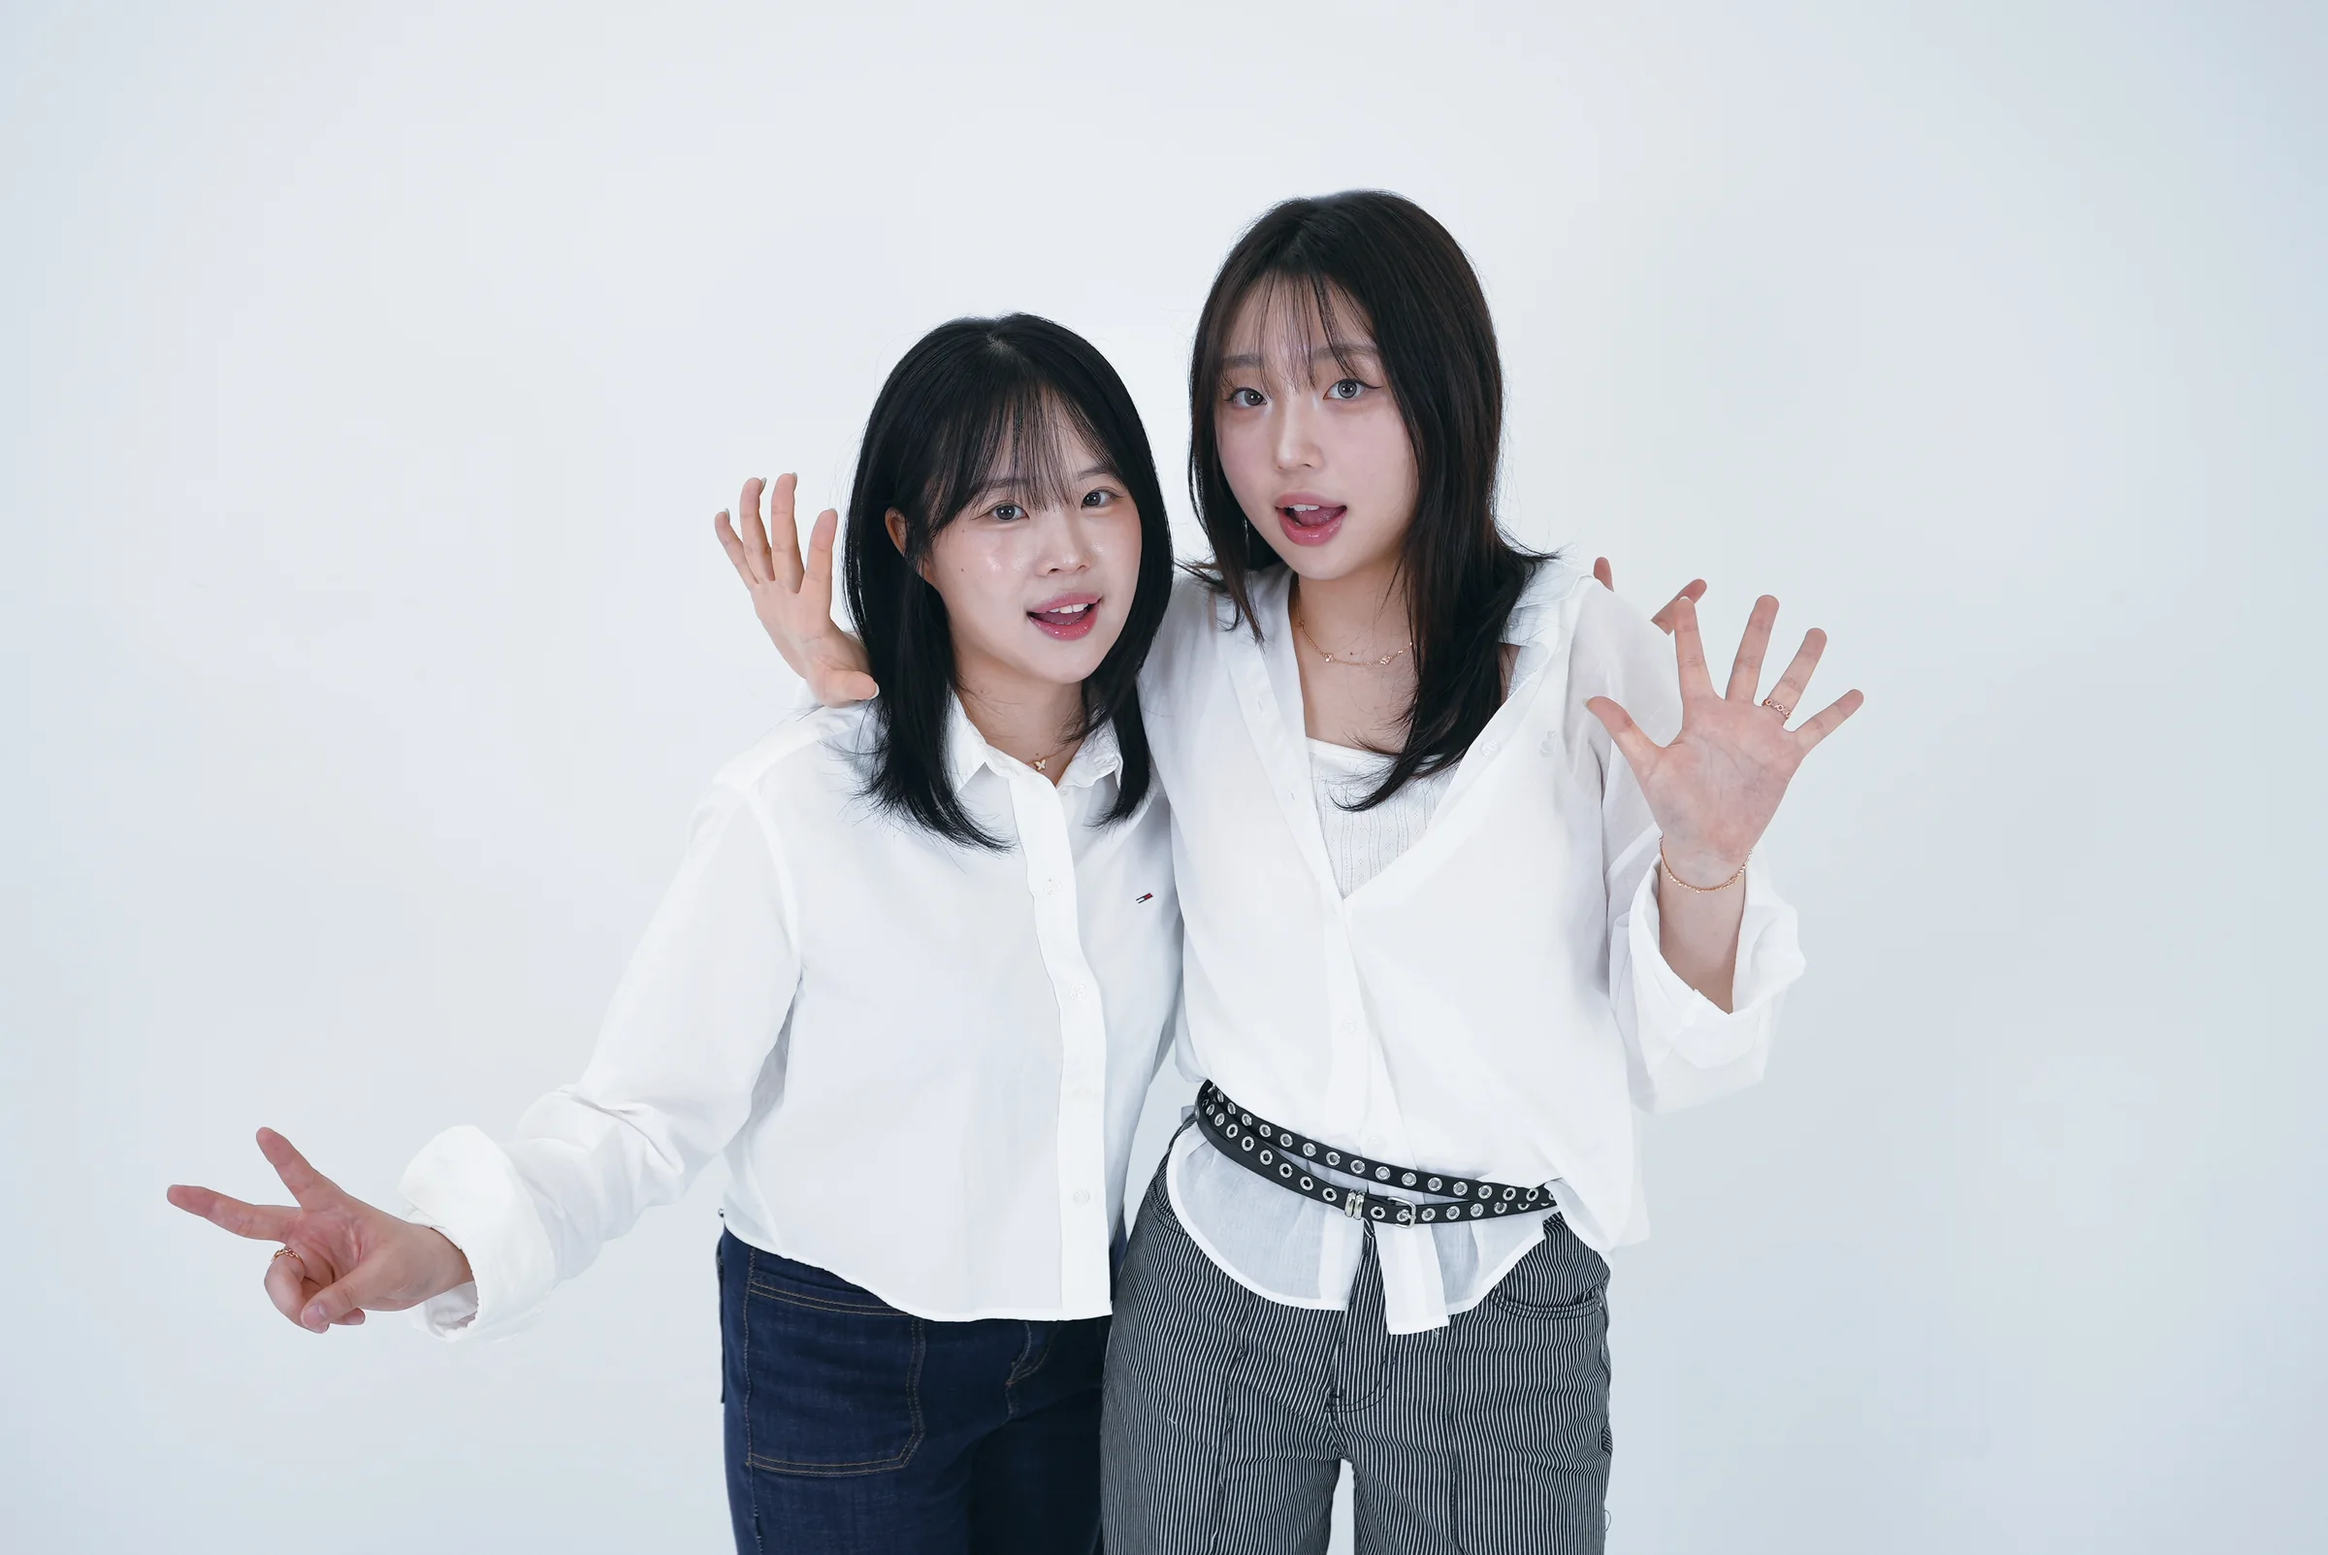
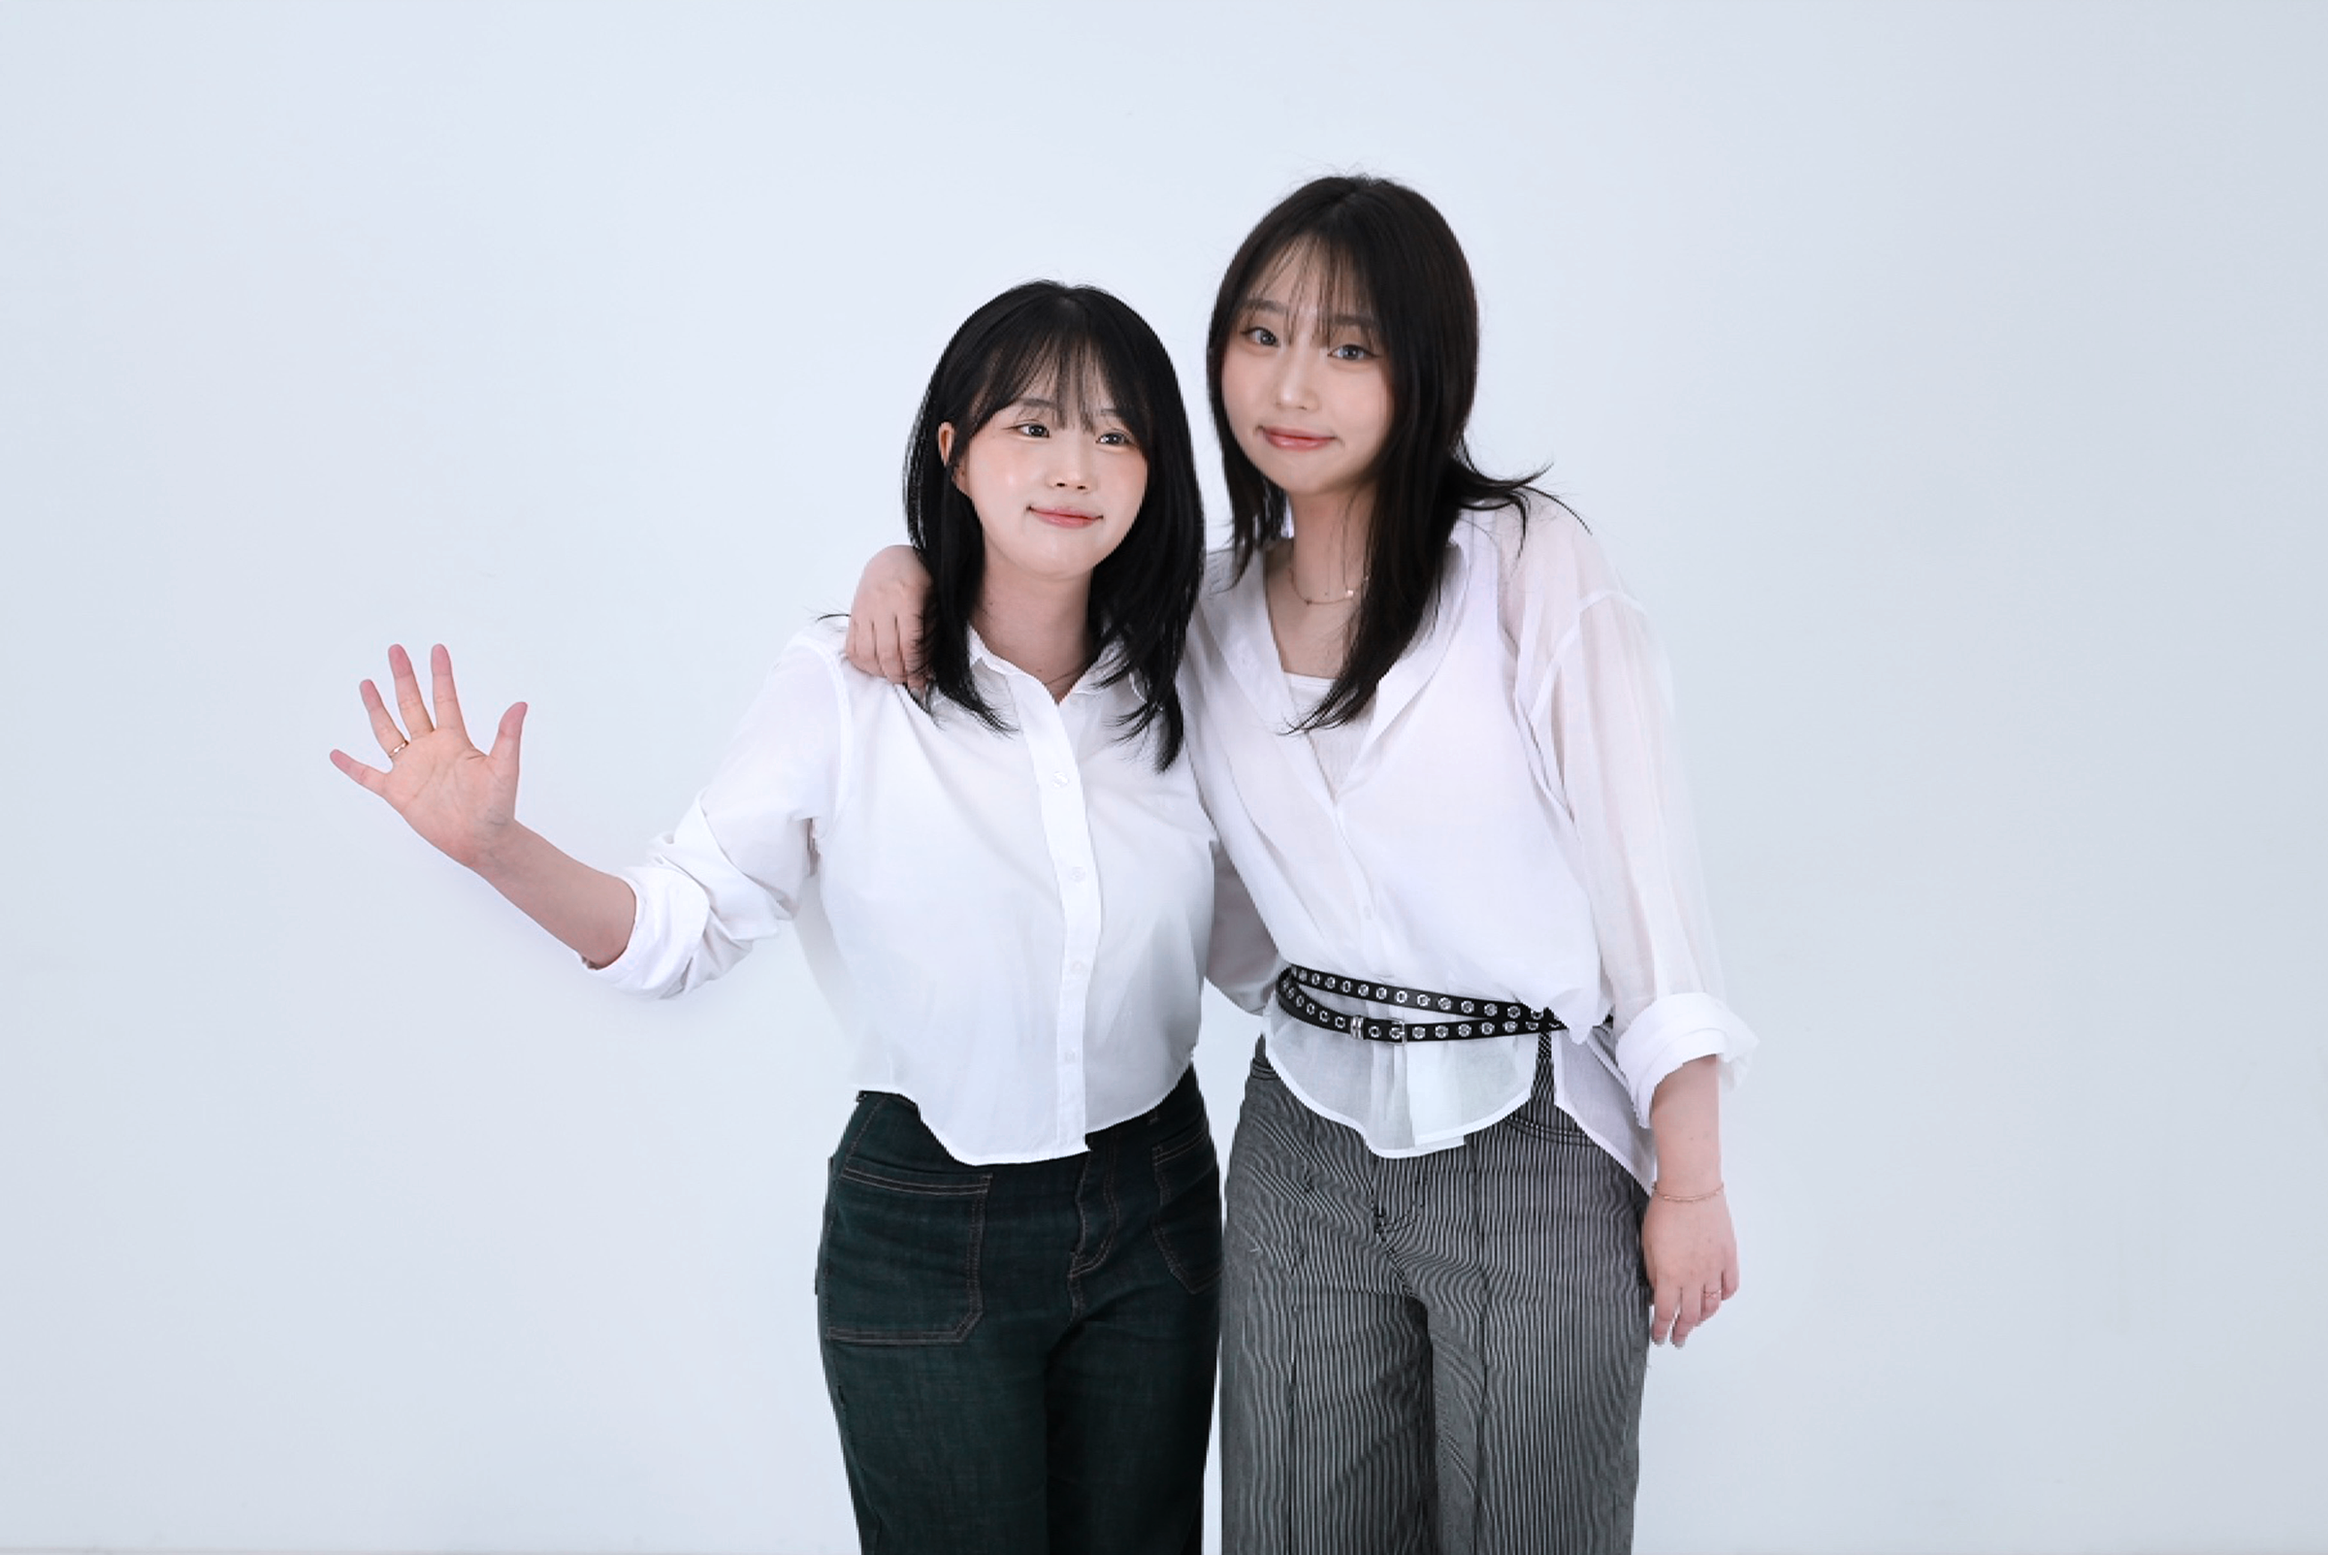
1107
update

Changed region(s): [[0.125, 0.0936, 0.8125, 1.0], [0.0625, 0.7174, 0.2188, 0.8734]]

diff --git a/cjdmd2026/js/project_05.js b/cjdmd2026/js/project_05.js
@@ -362,6 +362,12 @@ async function captureForeground(target, {includeHidden = false} = {}) {
     if (!element.getClientRects().length) continue;
     const parentStyle = getComputedStyle(element);
     if (!includeHidden && (parentStyle.visibility === 'hidden' || Number(parentStyle.opacity) === 0)) continue;
+    if (element.classList.contains('project-dial-title')) {
+      const rect = element.getBoundingClientRect();
+      const barWidth = parseFloat(parentStyle.borderLeftWidth);
+      ctx.fillStyle = parentStyle.borderLeftColor;
+      ctx.fillRect(rect.left, rect.top, barWidth, rect.height);
+    }
     const walker = document.createTreeWalker(element, NodeFilter.SHOW_TEXT);
     while (walker.nextNode()) {
       const node = walker.currentNode;
@@ -708,7 +714,6 @@ async function captureForeground(target, {includeHidden = false} = {}) {
         fluid: 50,          // 세로 전환에서 과한 출렁임을 줄임
         wheelThreshold: 100,  // 미세 휠 입력에 너무 민감하게 반응하지 않도록
         wheelGestureGap: 200, // 휠 입력이 끊긴 뒤 다음 제스처 허용
-        wheelRepeatDelay: 200, // 강한 연속 입력은 제스처가 끝나기 전에도 허용
         pixelRatio: 1.25,
         maxTextureSize: 1920,
         ...window.PROJECT_FLUID_OPTIONS
@@ -1073,8 +1078,7 @@ async function captureForeground(target, {includeHidden = false} = {}) {
             const reduce=matchMedia('(prefers-reduced-motion: reduce)');
             let index=Math.max(0,cards.findIndex(c=>c.classList.contains('is-active')));
             let engine=null,phase='idle',queuedDirection=null,request=0,disabled=false,disposed=false;
-            let wheelTotal=0,lastWheel=0,searchFrame=0,wheelLocked=false,wheelDirection=0;
-            let lastWheelAmount=0,lastWheelNavigation=0;
+            let wheelTotal=0,lastWheel=0,searchFrame=0,wheelLocked=false;
             let wanted=null,wantedDirection=1,loading=false,prepared=null;
             let initial=true,stoppedLenis=null;
             let searchTarget=null,searchTimer=0;
@@ -1142,6 +1146,8 @@ async function captureForeground(target, {includeHidden = false} = {}) {
                     icon.removeAttribute('role');icon.removeAttribute('aria-labelledby');
                     icon.setAttribute('aria-hidden','true');icon.setAttribute('focusable','false');
                     slot.replaceChildren(icon);
+                    const accent = icon.querySelector('[fill^="#"]')?.getAttribute('fill');
+                    if (accent) item.style.setProperty('--project-title-accent', accent);
                     slot.classList.add('is-icon-loaded');
                     item.classList.add('is-icon-loaded');
                 }catch(error){
@@ -1715,7 +1721,7 @@ async function captureForeground(target, {includeHidden = false} = {}) {
                     'project-wave-text-pending');
                 delete iconRail.dataset.entryPhase;
                 phase='idle';
-                wheelTotal=0;wheelLocked=false;lastWheel=0;
+                wheelTotal=0;
                 syncIconRail(cards[index]?.dataset.projectId);
                 if(!disposed&&!slideview.hidden){
                     // Keep the description's earlier reveal running through the wave's final tail.
@@ -1995,8 +2001,7 @@ async function captureForeground(target, {includeHidden = false} = {}) {
                 wanted=null;prepared=null;loading=false;phase='idle';queuedDirection=null;
                 iconTransition=null;
                 syncIconRail(cards[index]?.dataset.projectId);
-                wheelTotal=0;lastWheel=0;wheelLocked=false;wheelDirection=0;
-                lastWheelAmount=0;lastWheelNavigation=0;
+                wheelTotal=0;lastWheel=0;wheelLocked=false;
                 engine?.cancel();slideview.classList.remove('is-fluid-transitioning');
             }
             function jump(next,updateText=true){
@@ -2368,22 +2373,16 @@ function settleAsciiContent() {
                 event.lenisStopPropagation=true;
                 const delta=Math.abs(event.deltaY)>=Math.abs(event.deltaX)?event.deltaY:event.deltaX;
                 if(!delta)return;
-                const now=performance.now();
+                const now=event.timeStamp;
                 const direction=Math.sign(delta);
                 const unit=event.deltaMode===1?16:event.deltaMode===2?innerHeight:1;
-                const amount=Math.abs(delta*unit);
-                const threshold=wheelOption('wheelThreshold',100,1,500);
-                // Accept fresh flicks and sustained wheel input, but not a decaying tail.
-                const renewedPush=wheelLocked
-                    && now-lastWheelNavigation>=wheelOption('wheelRepeatDelay',200,80,600)
-                    && ((amount>=12&&amount>lastWheelAmount*1.5)
-                        || (amount>=threshold*.5&&amount>=lastWheelAmount*.98));
-                const newGesture=now-lastWheel>wheelOption('wheelGestureGap',200,80,1000)
-                    || direction!==wheelDirection || renewedPush;
-                if(newGesture){wheelTotal=0;wheelLocked=false;}
+                // Momentum can spike or briefly reverse within a single gesture.
+                // Only a pause since the last wheel event starts another gesture.
+                if(now-lastWheel>wheelOption('wheelGestureGap',200,80,1000)){
+                    wheelTotal=0;
+                    wheelLocked=false;
+                }
                 lastWheel=now;
-                wheelDirection=direction;
-                lastWheelAmount=amount;
                 if(root.classList.contains('project-intro-pending')
                     ||root.classList.contains('project-intro-running')){
                     wheelTotal=0;wheelLocked=true;return;
@@ -2391,14 +2390,14 @@ function settleAsciiContent() {
                 // Locked/inertial events still adjust animation speed without adding slides.
                 window.ProjectWave.updateScrollSpeed(delta*unit);
                 if(wheelLocked)return;
+                if(Math.sign(wheelTotal)!==direction)wheelTotal=0;
                 wheelTotal+=delta*unit;
-                if(Math.abs(wheelTotal)>=threshold){
+                if(Math.abs(wheelTotal)>=wheelOption('wheelThreshold',100,1,500)){
                     wheelTotal=0;
                     navigate(direction);
                     // Set after navigate: reduced motion may synchronously reset state.
                     wheelLocked=true;
-                    lastWheelNavigation=now;
-                    lastWheel=now;wheelDirection=direction;
+                    lastWheel=now;
                 }
             },{passive:false,capture:true});
             listen(document,'keydown',event=>{

diff --git a/cjdmd2026/project/index.html b/cjdmd2026/project/index.html
@@ -4,7 +4,7 @@
     <meta charset="UTF-8">
     <meta name="viewport" content="width=device-width, initial-scale=1.0">
     <title>유연한 결합: 청주대학교 디지털미디어디자인</title>
-    <link rel="stylesheet" href="../css/project_03.css?v=20261107-slide-copy-size-3">
+    <link rel="stylesheet" href="../css/project_03.css?v=20261107-title-accent">
     <link rel="stylesheet" href="../css/mobile-common.css">
     <link rel="stylesheet" href="../css/header-logo.css?v=20261024-1">
     <script>
@@ -33,7 +33,7 @@
     <script type="text/plain" data-desktop-src="../js/designer-data.js?v=20261106-cheoma"></script>
     <script type="text/plain" data-desktop-src="../js/designer-icon-data.js?v=20261106-cheoma"></script>
     <script type="text/plain" data-desktop-src="../js/project-grid-motion.js?v=20261101-grid-scroll-perf-2"></script>
-    <script type="text/plain" data-desktop-src="../js/project_05.js?v=20261107-slide-spacing-3"></script>
+    <script type="text/plain" data-desktop-src="../js/project_05.js?v=20261107-wheel-gesture"></script>
     <script type="text/plain" data-desktop-src="../js/student-mouse-effect.js?v=20261106-cheoma"></script>
     <script type="text/plain" data-desktop-src="https://unpkg.com/lenis@1.3.15/dist/lenis.min.js"></script>
     <script type="text/plain" data-desktop-src="../js/desktop-smooth-scroll.js?v=20261030-1"></script>

diff --git a/cjdmd2026/css/project_03.css b/cjdmd2026/css/project_03.css
@@ -568,6 +568,8 @@ body:has(#slideview:not([hidden])) .header .nav ul li {
 }
 
 .container:has(#slideview:not([hidden])) .project-dial {
+    --project-title-bar-width: 5px;
+    --project-title-bar-gap: clamp(12px, 1vw, 20px);
     position: fixed;
 
     top: 0;
@@ -649,6 +651,8 @@ body:has(#slideview:not([hidden])) .header .nav ul li {
 }
 
 .container:has(#slideview:not([hidden])) .project-dial-title {
+    padding-left: var(--project-title-bar-gap);
+    border-left: var(--project-title-bar-width) solid var(--project-title-accent, transparent);
     font-family: 'pretendard', var(--font-main);
     font-size: 5rem;
     font-weight: 800;
@@ -721,8 +725,9 @@ html[data-project-fluid-view="slide"] .project-warp {
 }
 
 .project-info-block {
-    font-size: calc(clamp(1rem, 0.8vw, 1.25rem) + 0.1rem);
+    font-size: 1.15rem;
     line-height: 1.8;
+    letter-spacing: -0.02rem;
     font-weight: 400;
 
     color: rgba(255, 255, 255, 0.68);
